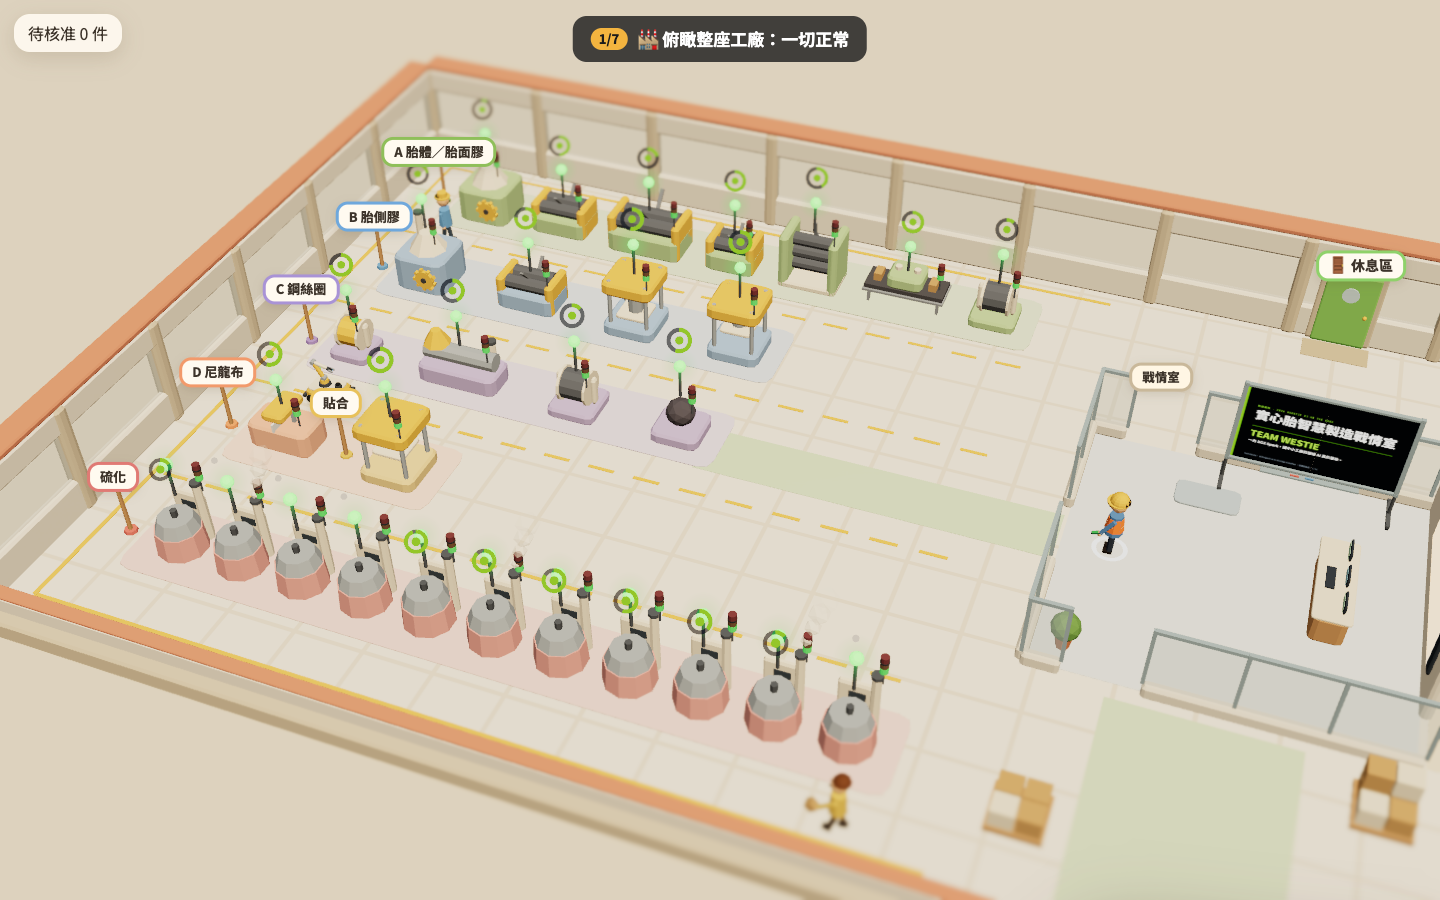
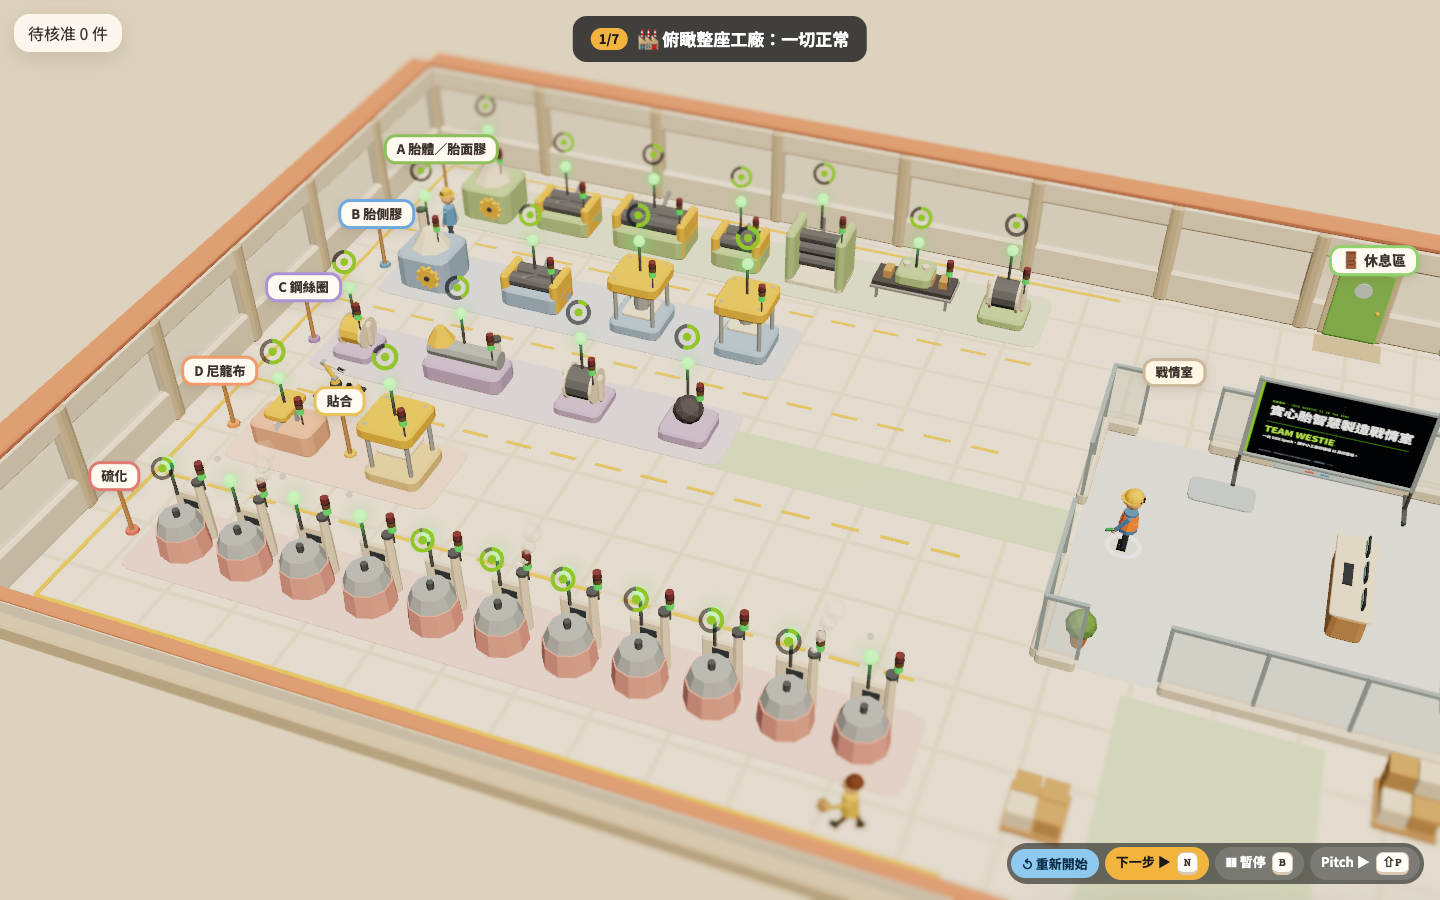
feat(demo): four presenter controls for the simple 3D demo (start / next / pause / pitch)
?demo=simple gets its own bottom-right dock (SimpleDock) in place of the hidden 6-minute one, CJ 10-27:
「i need next step and pause button and start demo button and ptich button」.

- ▶ 開始 Demo (G): starts or replays the run in place, no reload; reads ↺ 重新開始 while it runs
- 下一步 ▶ (N / Space / →): skips to the next cue; off while paused
- ❚❚ 暫停 / ▶ 繼續 (B): demo.togglePause() — freezes the demo clock and the plant's sim clock
  (/api/demo/state pause); the caption shows a ❚❚ 已暫停 chip
- Pitch ▶ (Shift+P): the whiteboard slides at any time; the demo is paused first
- fix: a replay in place skipped the bird's-eye beat — the overview's elapsed time counted from
  0 instead of from setup (walk.enteredAt)
- the HUD's 簡易 Demo button is hidden in simple mode like the other demo buttons (the dock has start)
- e2e demo-simple.mjs: after the 7 beats, presses each control and asserts its effect; saves controls.png
- docs/DEMO-SCRIPT.md: the four buttons

diff --git a/web/src/factory3d/FactoryApp.tsx b/web/src/factory3d/FactoryApp.tsx
@@ -229,12 +229,18 @@ export function FactoryApp() {
   const demo = useGuidedDemo({ state, transport, onBegin: onDemoBegin, onEnd: onDemoEnd, onWalk: onDemoWalk, onPhone: onDemoPhone, nSlides })
   const autoOn = demo.running && demo.auto
   const autoMode = autoActive(transport?.mode)
-  /** ?demo=simple (CJ 10-27): the one-line story; no prompter, no dock, 7-stage captions (AutoOverlay) */
+  /** ?demo=simple (CJ 10-27): the one-line story; no prompter, 7-stage captions (AutoOverlay), its own four-button dock (SimpleDock) */
   const simpleMode = simpleRequested()
   const pitchView = demo.running && demo.cue.shot.kind === 'whiteboard'
   const { running: demoOn, setSlide, setSlideView, slideView, changeSlide } = demo
   // 簡報 from anywhere (CJ: 「白板我點不進去怎麼demo」): stand up from the desk first, then the full-screen slides
   const openSlides = useCallback(() => { setPanel(null); releaseLook(); setSlideView(true) }, [setSlideView])
+  // the simple demo's Pitch ▶ / Shift+P (CJ 10-27): the story freezes (demo clock and plant) while the slides are up
+  const { togglePause: demoTogglePause, paused: demoPaused } = demo
+  const openPitch = useCallback(() => {
+    if (simpleMode && demoOn && !demoPaused) demoTogglePause()
+    openSlides()
+  }, [simpleMode, demoOn, demoPaused, demoTogglePause, openSlides])
   // background music: during the 3D demo only, faded out for the pitch
   useEffect(() => { if (demoOn && !slideView && !pitchView) startMusic(); else stopMusic() }, [demoOn, slideView, pitchView])
   useEffect(() => () => stopMusic(0.3), [])
@@ -243,7 +249,7 @@ export function FactoryApp() {
       const tg = e.target as HTMLElement | null
       if (tg && (tg.tagName === 'INPUT' || tg.tagName === 'TEXTAREA' || tg.isContentEditable) || e.repeat || e.ctrlKey || e.metaKey || e.altKey) return
       if (e.code === 'KeyM') { toggleMusic(); return }
-      if (e.code === 'KeyP' && e.shiftKey) { e.stopImmediatePropagation(); openSlides(); return }
+      if (e.code === 'KeyP' && e.shiftKey) { e.stopImmediatePropagation(); openPitch(); return }
       // F / Esc always stand up from the desk computer (when the page itself has the keys, DeskMonitor does it)
       if (!demoOn && !slideView && panel?.kind === 'monitor' && (e.code === 'KeyF' || e.code === 'Escape')) {
         e.stopImmediatePropagation(); setPanel(null); window.focus(); canvasRef.current?.focus(); return
@@ -257,7 +263,7 @@ export function FactoryApp() {
     }
     window.addEventListener('keydown', k, true)
     return () => window.removeEventListener('keydown', k, true)
-  }, [openSlides, slideView, demoOn, changeSlide, setSlideView, panel])
+  }, [openPitch, slideView, demoOn, changeSlide, setSlideView, panel])
   // demo keys (demoInput.ts): while the demo runs these are the only keys that work
   const runAction = useCallback((act: Action) => {
     if (act === 'start') void demo.begin()
@@ -525,9 +531,9 @@ export function FactoryApp() {
           <button className="f3-demo-btn" onClick={() => void demo.begin()} data-testid="demo-start" disabled={!transport}>▶ Demo（6 分鐘）{!TOUCH_DEVICE && <kbd>G</kbd>}</button>
         )}
         {/* the simple one-line story (CJ 10-27, ?demo=simple): opens the URL, so the whole page loads in simple mode and the
-            run starts by itself; after it ends the same button plays it again */}
+            run starts by itself; in simple mode itself the dock's ▶ 開始 Demo replays it in place (hidden here like the other demo buttons) */}
         {!demoOn && (
-          <button className="f3-demo-btn f3-simple-btn" onClick={() => location.assign(simpleHref())} data-testid="demo-simple" disabled={!transport}>{simpleMode ? '▶ 簡易 Demo 再播一次' : '▶ 簡易 Demo'}</button>
+          <button className="f3-demo-btn f3-simple-btn" onClick={() => location.assign(simpleHref())} data-testid="demo-simple" disabled={!transport}>▶ 簡易 Demo</button>
         )}
       </div>
       {started && !overlay && TOUCH_DEVICE && <TouchControls action={prompt} mode={mode} />}
@@ -540,9 +546,13 @@ export function FactoryApp() {
           Bottom-left above the auto bar; on a narrow screen it steps aside while the phone is up (factory3d.css .f3-tp). */}
       {!slideView && !simpleMode && <div className="f3-tp" data-phone={phoneUp ? 'up' : undefined}><DemoPrompter /></div>}
       {FPS_ON && <FpsMeter />}
-      {/* the simple demo has no prompter, no dock, no pitch (CJ 10-27: 「make it an easy version」): captions only (AutoOverlay) */}
-      {!simpleMode && <DemoDock running={demoOn} auto={autoOn} slides={slideView} onStart={() => { setSlideView(false); void demo.begin() }}
-        onNext={() => void demo.cont()} onPitch={openSlides} />}
+      {/* the simple demo (CJ 10-27: 「make it an easy version」) has no prompter: captions (AutoOverlay) and its own four buttons
+          (CJ 10-27: 「i need next step and pause button and start demo button and ptich button」) instead of the 6-minute dock */}
+      {simpleMode
+        ? <SimpleDock running={demoOn} paused={demo.paused} slides={slideView} onStart={() => { setSlideView(false); void demo.begin() }}
+          onNext={() => void demo.cont()} onPause={demo.togglePause} onPitch={openPitch} />
+        : <DemoDock running={demoOn} auto={autoOn} slides={slideView} onStart={() => { setSlideView(false); void demo.begin() }}
+          onNext={() => void demo.cont()} onPitch={openSlides} />}
       {(slideView || pitchView) && <PitchPrompter says={deck.says} index={Math.min(demo.slide, nSlides - 1)} />}
       {autoOn ? <AutoOverlay demo={demo} /> : <DemoOverlay demo={demo} deck={deck} onPhone={() => raisePhone(true)} pad={pad.connected} />}
       {!demoOn && scene === 'factory' && alarmIds.map((id) => (
@@ -632,6 +642,31 @@ function DemoDock({ running, auto, slides, onStart, onNext, onPitch }: { running
       {!running && <button type="button" data-testid="demo-start-btn" onClick={onStart} title="從第 1 階段重新開始自動 Demo（G）">▶ Demo 開始</button>}
       {!atEnd && !slides && <button type="button" data-testid="slides-open" onClick={onPitch} title="打開簡報（Shift+P）">簡報 ▶</button>}
       <button type="button" className="f3-dock-mute" data-testid="music-toggle" onClick={toggleMusic} aria-pressed={!muted} title={muted ? '開啟背景音樂（M）' : '關閉背景音樂（M）'}>{muted ? '🔇' : '🔊'}</button>
+    </div>
+  )
+}
+
+/** The simple demo's controls (CJ 10-27: 「i need next step and pause button and start demo button and ptich button」), bottom-right
+ *  where the 6-minute dock sits, always the same four so the presenter's hand knows where they are:
+ *  ▶ 開始 Demo (G) — starts the run in place (no reload); while it runs it reads ↺ 重新開始 and starts over from stage 1.
+ *  下一步 ▶ (N / Space / →) — skips to the next cue; off while paused (demo.cont() ignores it then).
+ *  ❚❚ 暫停 / ▶ 繼續 (B) — demo.togglePause(): freezes the demo clock and, through /api/demo/state, the plant's sim clock.
+ *  Pitch ▶ (Shift+P) — the whiteboard slides, reachable at any time; the demo is paused first (openPitch). Hidden while the slides are up. */
+function SimpleDock({ running, paused, slides, onStart, onNext, onPause, onPitch }: {
+  running: boolean; paused: boolean; slides: boolean; onStart: () => void; onNext: () => void; onPause: () => void; onPitch: () => void
+}) {
+  if (slides) return null
+  const key = (k: string) => (TOUCH_DEVICE ? null : <kbd>{k}</kbd>)
+  return (
+    <div className="f3-dock f3-simple-dock" data-testid="simple-dock">
+      <button type="button" className="f3-dock-start" data-testid="simple-start" onClick={onStart} title={running ? '從第 1 階段重新開始' : '開始簡易 Demo（G）'}>
+        {running ? '↺ 重新開始' : <>▶ 開始 Demo{key('G')}</>}
+      </button>
+      <button type="button" className="f3-dock-next" data-testid="simple-next" onClick={onNext} disabled={!running || paused} title="下一步（N／Space／→）">下一步 ▶{key('N')}</button>
+      <button type="button" className="f3-dock-pause" data-testid="simple-pause" onClick={onPause} disabled={!running} aria-pressed={paused} title={paused ? '繼續（B）' : '暫停（B）'}>
+        {paused ? '▶ 繼續' : '❚❚ 暫停'}{key('B')}
+      </button>
+      <button type="button" className="f3-dock-pitch" data-testid="simple-pitch" onClick={onPitch} title="打開 Pitch 簡報，Demo 先暫停（Shift+P）">Pitch ▶{key('⇧P')}</button>
     </div>
   )
 }

diff --git a/web/src/demo/auto.css b/web/src/demo/auto.css
@@ -62,7 +62,14 @@ html[data-demo-auto] .f3-touch-btns { display: none !important; }
 .f3-hud > .f3-demo-btn.f3-simple-btn { color: #0f2f4a; background: #8ec9f0; box-shadow: 0 4px 0 #5f9fcb, var(--c-shadow); }
 .f3-hud > .f3-demo-btn.f3-simple-btn:hover { background: #79bbe8; }
 .f3-go.f3-go-simple { margin-top: 8px; background: #8ec9f0; color: #0f2f4a; box-shadow: 0 4px 0 #5f9fcb; cursor: pointer; }
-/* in simple mode the hud's demo buttons are hidden like the rest of the auto chrome, except the simple button itself (再播一次) */
-html[data-demo-auto] .f3-hud > .f3-demo-btn.f3-simple-btn { display: inline-block !important; }
+/* the simple demo's four controls (SimpleDock, CJ 10-27 「i need next step and pause button and start demo button and ptich button」):
+   the same bottom-right dock; ▶ 開始 Demo light blue like the 簡易 Demo button, 暫停／繼續 amber-tinted, keys as small chips */
+.f3-simple-dock button:disabled { opacity: .45; cursor: default; }
+.f3-simple-dock .f3-dock-start { color: #0f2f4a; background: #8ec9f0; }
+.f3-simple-dock .f3-dock-start:hover, .f3-simple-dock .f3-dock-start:focus-visible { background: #79bbe8; }
+.f3-simple-dock .f3-dock-pause[aria-pressed="true"] { color: #1b1b1b; background: #fbecd0; }
+.f3-simple-dock kbd { margin-left: 6px; padding: 0 5px; border-radius: 4px; background: rgba(0,0,0,.22); font: 700 11px/1.5 ui-monospace, Menlo, monospace; vertical-align: 1px; }
+.f3-simple-dock .f3-dock-start kbd { background: rgba(15,47,74,.18); }
+.f3-auto-cap .f3-simple-paused { display: inline-block; margin-left: 10px; padding: 1px 8px; border-radius: 999px; background: #fbecd0; color: #a0561a; font-size: 13px; font-weight: 800; vertical-align: 2px; }
 /* the simple version (?demo=simple): the corner 待核准 alert stays off too (the approval is the demo's own, the caption says so) */
 html[data-demo-simple] .paa-wrap { display: none !important; }

diff --git a/web/src/factory3d/AutoOverlay.tsx b/web/src/factory3d/AutoOverlay.tsx
@@ -1,7 +1,8 @@
 // Auto-play demo overlay (/factory?demo=cure07, ?demo=simple, or ?mock=1&demo=cure07): one caption line on top (the
 // beat's, demo/beat.ts) and one small 「下一階段 ▶」 button (CJ 10-22; also N / Space / →) that skips to the next beat now
 // — the demo's own pending card is approved on the way. No pause / replay (「不需要下面暫停跟重新播放」); Esc still leaves.
-// The simple version (?demo=simple, CJ 10-27) shows its own 7-stage captions and a 「n/7」 chip; no dock, no prompter.
+// The simple version (?demo=simple, CJ 10-27) shows its own 7-stage captions, a 「n/7」 chip and, when the presenter's ❚❚ 暫停
+// (SimpleDock) holds the story, a 「❚❚ 已暫停」 chip after the caption; no prompter.
 import { AUTO_TEXT, SIMPLE_TEXT, simpleRequested, simpleStageOf } from '../demo/auto'
 import { useDemoBeat } from '../demo/beat'
 import type { GuidedDemo } from './useGuidedDemo'
@@ -16,6 +17,7 @@ export function AutoOverlay({ demo }: { demo: GuidedDemo }) {
       <div className="f3-auto-cap" data-testid="auto-cap" data-beat={beat ?? undefined} data-stage={stage?.n}>
         {stage && <span className="f3-simple-stage" data-testid="simple-stage">{stage.n}/{stage.total}</span>}
         {title}
+        {simple && demo.paused && <span className="f3-simple-paused" role="status" data-testid="simple-paused">❚❚ 已暫停</span>}
       </div>
     </>
   )

diff --git a/web/src/factory3d/useGuidedDemo.ts b/web/src/factory3d/useGuidedDemo.ts
@@ -125,7 +125,9 @@ export function useGuidedDemo({ state, transport, onBegin, onEnd, onWalk, onPhon
     teleport(START.x, START.z, START.yaw)
     director.on = true
     director.mode = 'orbit'
-    walk.current = { station: null, monitorAt: 0, enteredAt: 0 }
+    // enteredAt = now: the opening cue never fires as a 'cue', so the overview's elapsed time counts from here (a 0 made a
+    // replay in place skip the bird's-eye beat, since the page had been up longer than the overview lasts)
+    walk.current = { station: null, monitorAt: 0, enteredAt: performance.now() }
     phoneUpRef.current = false; phoneShown.current = false; phoneWant.current = false
     setMonitor(null)
     setSlide(0); setSlideView(false); setBigUntil(0); setConfirmExit(false); setPaused(false); setNote(null)

diff --git a/docs/DEMO-SCRIPT.md b/docs/DEMO-SCRIPT.md
@@ -71,7 +71,14 @@
 
 CJ 10-27：「make it an easy version just demo from bird angle then > new order flooded in > leave computer > emrgency no 7 temperature > aprrove the plan > worker finished it, check on the patrol little care > back to computer」。
 
-開法：3D 工廠右下角按「▶ 簡易 Demo」，或直接開 `http://<主機>:<埠>/factory?demo=simple`。按下去就自己跑完，不用再按任何鍵；跑完停在戰情室電腦前，再按一次同一顆按鈕就重播。沒有提詞機、沒有 dock、沒有 Pitch，只有上方一行字幕和「n/7」。
+開法：3D 工廠右下角按「▶ 簡易 Demo」，或直接開 `http://<主機>:<埠>/factory?demo=simple`。按下去就自己跑完，不用再按任何鍵；跑完停在戰情室電腦前。沒有提詞機，只有上方一行字幕和「n/7」，加右下角四顆按鈕（CJ 10-27：「i need next step and pause button and start demo button and ptich button」）：
+
+| 按鈕 | 鍵 | 做什麼 |
+|---|---|---|
+| ▶ 開始 Demo（跑的時候是 ↺ 重新開始） | G | 原地從第 1 段開始，不重新載入頁面 |
+| 下一步 ▶ | N／Space／→ | 跳到下一段；暫停中不能按 |
+| ❚❚ 暫停／▶ 繼續 | B | Demo 時間軸和工廠時鐘一起停（字幕後面出現「❚❚ 已暫停」） |
+| Pitch ▶ | Shift+P | 隨時開白板簡報，Demo 先暫停；Esc 關掉後按 ▶ 繼續 |
 
 | 段 | 畫面 |
 |---|---|
@@ -83,7 +90,7 @@ CJ 10-27：「make it an easy version just demo from bird angle then > new order
 | 6/7 維修・巡檢車 | 員工到 7 號機維修完成；轉身看巡檢機器車表演 |
 | 7/7 回到電腦 | 走回戰情室電腦，主控台上看得到剛剛的任務；Demo 結束 |
 
-檢查：`node web/e2e/demo-simple.mjs http://localhost:<埠>`（headless，mock 模式 `./start.sh` 就能跑），7 段各存一張截圖到 `docs/screenshots/simple-demo/`。
+檢查：`node web/e2e/demo-simple.mjs http://localhost:<埠>`（headless，mock 模式 `./start.sh` 就能跑），7 段各存一張截圖到 `docs/screenshots/simple-demo/`，跑完再按一輪四顆按鈕（`controls.png`）。
 
 ## 怎麼講 Agent Nemo（照實說）
 
